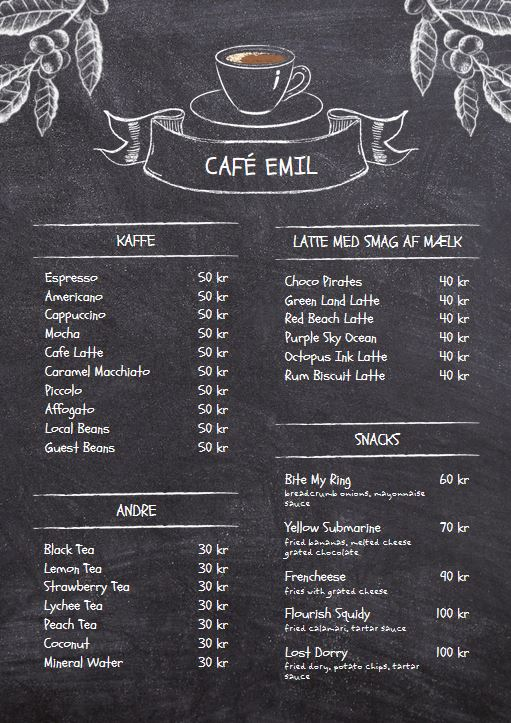
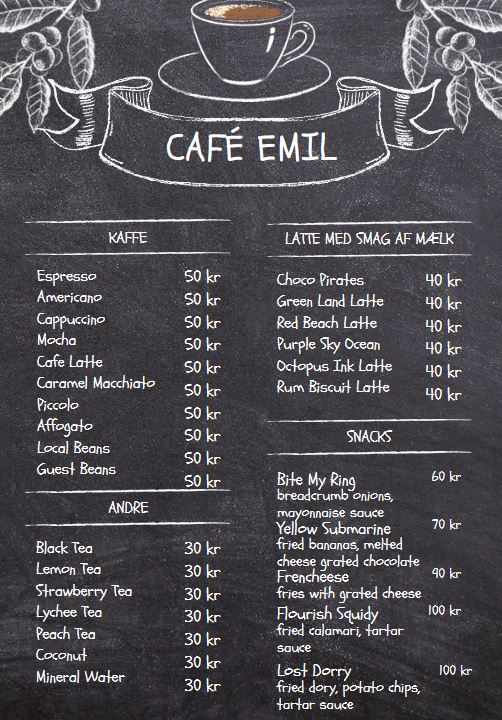
changed images

diff --git a/css/menukort/menu.css b/css/menukort/menu.css
@@ -12,7 +12,7 @@
 
 @media (max-width: 400px){
     .menukort img{
-        width: 100vw;
+        width: 90vw;
     }
     .menukort{
         margin-top: 50vh;
